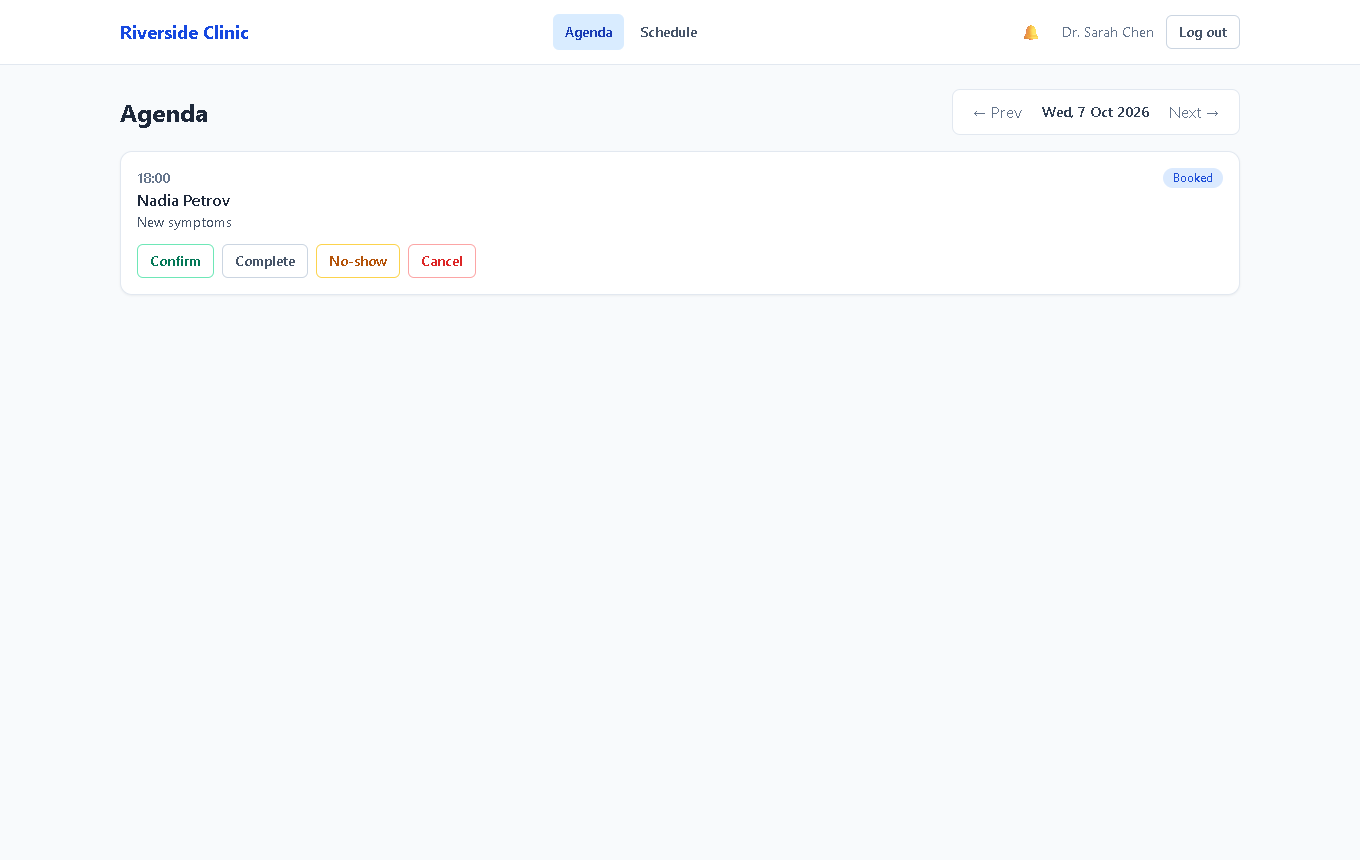
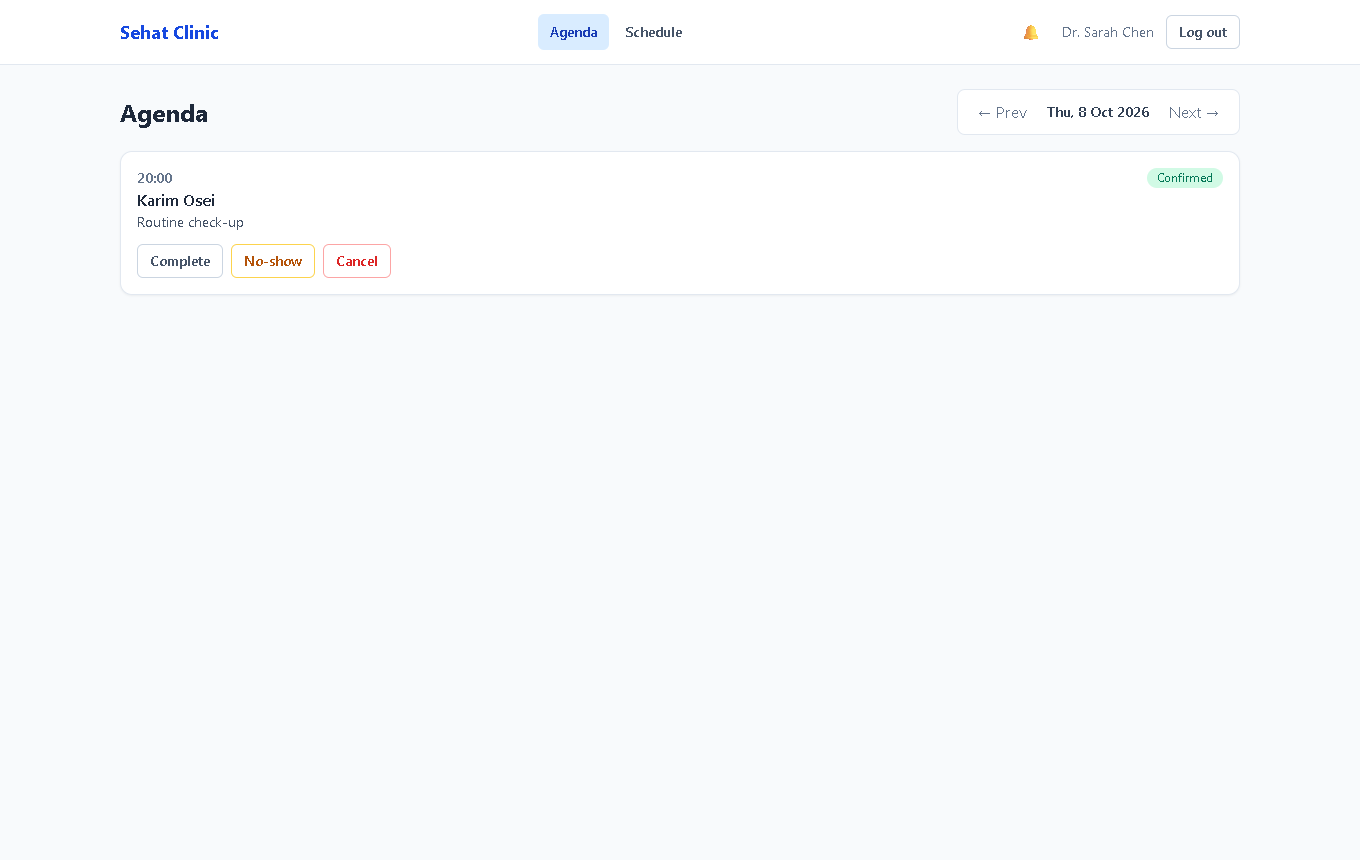
rename: Riverside Clinic -> Sehat Clinic
Updated the README title, the app's nav bar brand text, and the browser
tab title, then re-captured the 7 UI screenshots that showed the old
name in the header (the login screenshot is unaffected -- it has no
branding text). Verified with a clean typecheck + lint pass.

diff --git a/packages/web/src/components/Layout.tsx b/packages/web/src/components/Layout.tsx
@@ -22,7 +22,7 @@ export function Layout() {
       <header className="border-b border-slate-200 bg-white">
         <div className="mx-auto flex max-w-6xl items-center justify-between gap-4 px-4 py-3">
           <NavLink to="/" className="text-lg font-bold text-brand-700">
-            Riverside Clinic
+            Sehat Clinic
           </NavLink>
           <nav className="flex flex-wrap items-center gap-1">
             {user?.role === "PATIENT" && (

diff --git a/packages/web/index.html b/packages/web/index.html
@@ -3,7 +3,7 @@
   <head>
     <meta charset="UTF-8" />
     <meta name="viewport" content="width=device-width, initial-scale=1.0" />
-    <title>Clinic Appointments</title>
+    <title>Sehat Clinic</title>
   </head>
   <body>
     <div id="root"></div>

diff --git a/README.md b/README.md
@@ -1,4 +1,4 @@
-# Riverside Clinic — Appointment System
+# Sehat Clinic — Appointment System
 
 A booking system for a small multi-doctor clinic: patients book appointments online, doctors manage their weekly availability and daily agenda, and an admin runs the clinic. The core engineering challenge is scheduling — generating correct available time slots on demand and guaranteeing a doctor can never be double-booked, even under concurrent requests.
 
